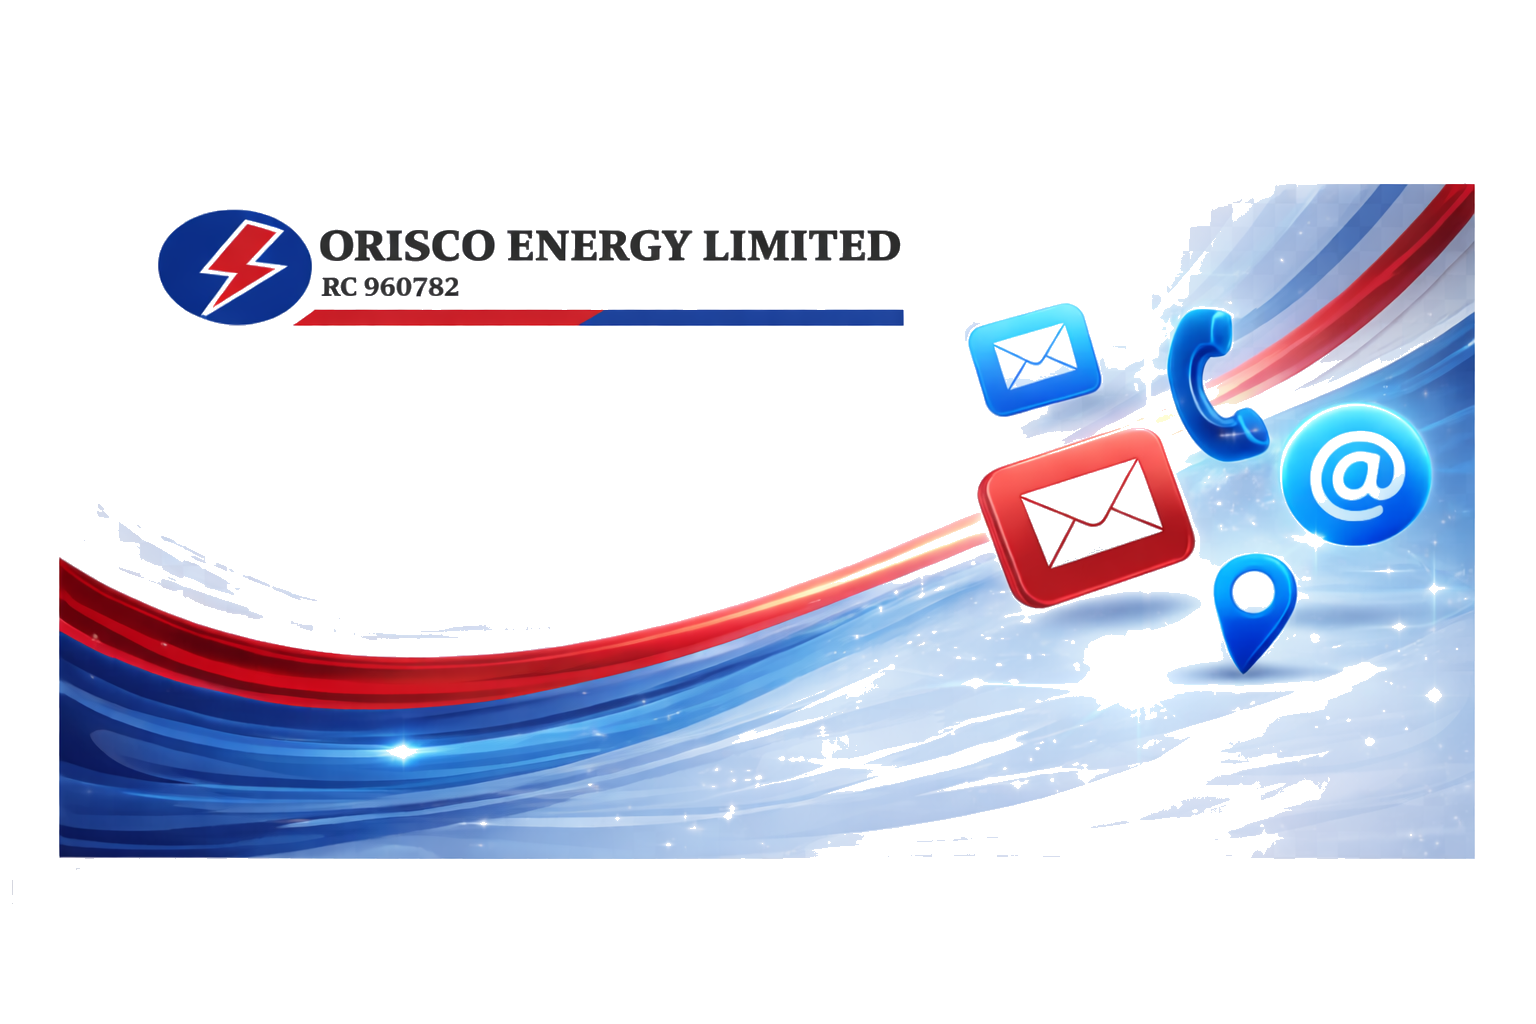
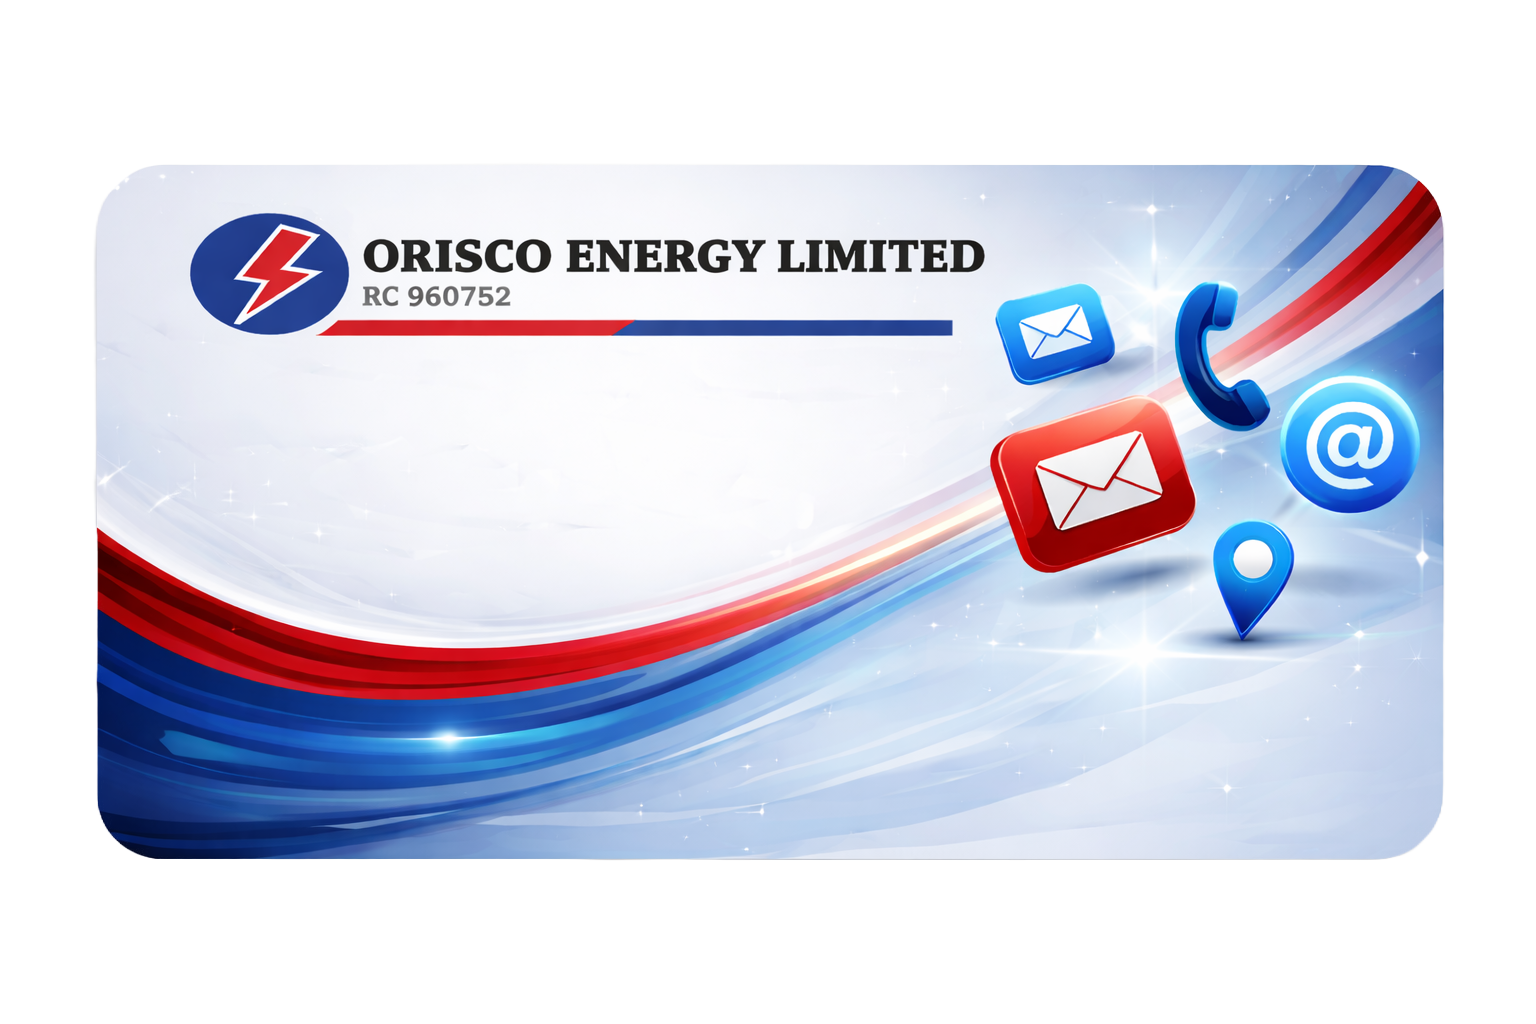
update contact hero

diff --git a/src/app/contact-us/page.module.css b/src/app/contact-us/page.module.css
@@ -5,10 +5,10 @@
 }
 
 .heroHeader {
-    background-image: linear-gradient(rgba(0, 30, 60, 0.7), rgba(0, 30, 60, 0.7)), url('/images/contact-hero.png');
+    background-image: url('/images/contact-hero.png');
     background-size: cover;
     background-position: center;
-    color: var(--white);
+    color: #cf1111;
     text-align: center;
     padding: 6rem 2rem;
     min-height: 50vh;
@@ -24,13 +24,13 @@
     font-size: clamp(2.5rem, 5vw, 3.5rem);
     font-weight: 800;
     margin-bottom: 1rem;
-    color: var(--white);
+    color: #cf1111;
     text-shadow: 0 2px 4px rgba(0, 0, 0, 0.3);
 }
 
 .heroHeader p {
     font-size: 1.1rem;
-    color: var(--white);
+    color: #cf1111;
     max-width: 760px;
     margin: 0 auto;
     opacity: 0.9;
